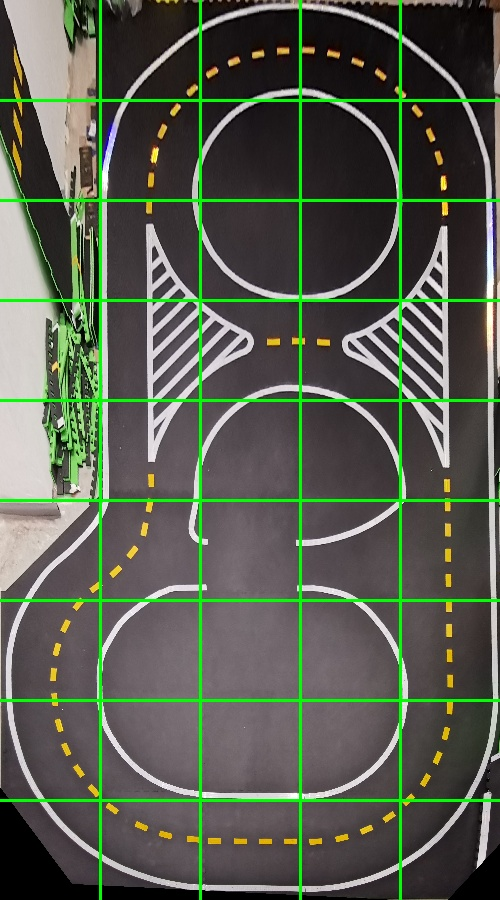
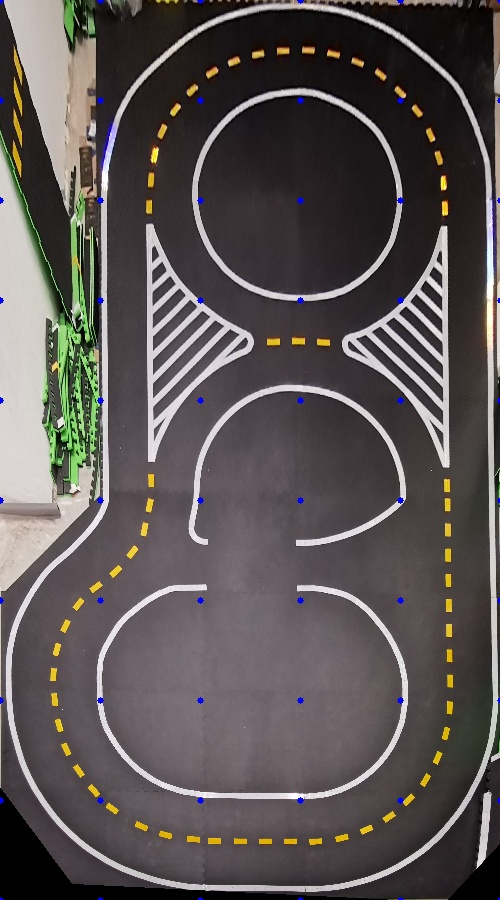
added generate_heatmap function

diff --git a/heatmap/track.py b/heatmap/track.py
@@ -1,15 +1,63 @@
 import cv2
+import numpy as np
 from transform import four_point_transform
+from gradient import generate_gradient
 
 class Track:
-    def __init__(self,image,shape:list):
-        """takes image path 
+    def __init__(self,image, bbox, shape:list):
+        """takes image 
         and the shape of the track as a list where the first element is the coordinates for a bbox for the track 
         and the second is a list of y coordinates for rows 
         and the third is a list of x coordinates for columns"""
-        self.image = cv2.imread(image)
-        self.bbox, self.rows, self.columns = shape
-        self.map = None
+        self.image = image
+        self.rows, self.columns = shape
+        self.shape = shape
+        self.bbox = bbox
+        self.map = self.find_map()
+        self.regions = self.find_regions()
+        self.types = [None]*len(self.regions)
 
     def find_map(self):
-        return four_point_transform(self.image, self.bbox)
+        return four_point_transform(self.image, self.bbox, self.shape)
+
+    def find_regions(self):
+        dims = self.map.shape[:2]
+        y_increment = x_increment = 100
+
+        y = 0
+        points = np.empty((dims[0]+1,dims[1]+1), dtype=object)
+        regions = []
+        while True:
+
+            x = 0            
+            while True:
+                
+                if x <= dims[0]:
+                    cv2.circle(self.map, (x,y), 3, (255,0,0), -1)
+                    points[y//y_increment][x//x_increment] = (x,y)
+                    x += x_increment
+                else: break
+            if y < dims[0]:
+                y += y_increment
+            else: break
+
+        for i in range(self.shape[0]):
+            for j in range(self.shape[1]):
+                regions.append(points[i:i+2,j:j+2])
+
+        return regions
+
+    def set_type(self, type,  i):
+        self.types[i] = type
+
+    def generate_heat_map(self, data):
+        gradiant = generate_gradient("green", "red")
+        heat_map = np.copy(self.map)
+
+        for i,region in enumerate(self.regions):
+            error_rate = data[self.types[i]][2]
+            color = gradiant[round(error_rate*len(gradiant))]
+            cv2.rectangle(heat_map,region[0][0],region[1][1],(int(color.blue*255),int(color.green*255),int(color.red*255)),-1)
+        return heat_map
+
+    

diff --git a/heatmap/try.py b/heatmap/try.py
@@ -1,33 +1,32 @@
+import random
 import cv2
 import numpy as np
 from transform import four_point_transform
+from track import Track
 
 track = cv2.imread("IMG_20211026_200255.jpg")
 track = cv2.copyMakeBorder(track, 0, 1000, 1500, 1000, cv2.BORDER_CONSTANT, None, value = 0)
 
-#track = cv2.resize(track, (1280,720), interpolation = cv2.INTER_AREA)
 
-transform = four_point_transform(track,np.array([(4650,755),(7230,3750),(88,4220),(3270,715)], np.int32),[5,9])
-dims = transform.shape[:2]
-y_increment = dims[0]//9
-x_increment = dims[1]//5
+t = Track(track, np.array([(4650,755),(7230,3750),(88,4220),(3270,715)], np.int32), [9,5])
+for index in range(len(t.types)):
+    t.set_type(random.randint(1,10), index)
 
-y = 0
-x = 0
-while True:
-    y += y_increment
-    if y < dims[0]:
-        cv2.line(transform, (0,y), (dims[1],y), (0,255,0), 2)
-    else: break
+data = {}
+for type in range(1,11):
+    data[type] = [100, random.randint(1,100)]
+    data[type].append(data[type][1]/data[type][0])
 
-while True:
-    x += x_increment
-    if x < dims[1]:
-        cv2.line(transform, (x,0), (x,dims[0]), (0,255,0), 2)
-    else: break
+heat_map = t.generate_heat_map(data)
 
-cv2.imshow("try",transform)
-cv2.imwrite("output.jpg", transform)
+cv2.imshow("map",t.map)
+
+cv2.imwrite("heatmap.jpg", heat_map)
+
+
+
+
+cv2.imwrite("output.jpg", t.map)
 cv2.imwrite("output1.jpg", track)
 if cv2.waitKey(0) & 0xFF == ord("q"):
     cv2.waitkey(1)

diff --git a/heatmap/parser.py b/heatmap/parser.py
@@ -1,0 +1,14 @@
+def parser(path):
+    lines = []
+    with open(path) as f:
+        lines = f.readlines()
+
+    data = []
+
+    for line in lines:
+        frame_data = line.split()
+        for i in range(len(frame_data)):
+            frame_data[i] = int(frame_data[i])
+        data.append(frame_data)
+
+    return data

diff --git a/heatmap/transform.py b/heatmap/transform.py
@@ -30,8 +30,8 @@ def four_point_transform(image, pts, shape:list = []):
 		# in the top-left, top-right, bottom-right, and bottom-left
 		# order
 	else:
-		maxWidth = shape[0]*100
-		maxHeight = shape[1]*100
+		maxWidth = shape[1]*100
+		maxHeight = shape[0]*100
 	dst = np.array([
 		[0, 0],
 		[maxWidth - 1, 0],

diff --git a/heatmap/metadata.py b/heatmap/metadata.py
@@ -9,3 +9,4 @@ def count(meta_data:list):
         if data[2]: count[data[1][1]]+=1
     for element in count:
         element.append(element[1]/element[0])
+    return count
